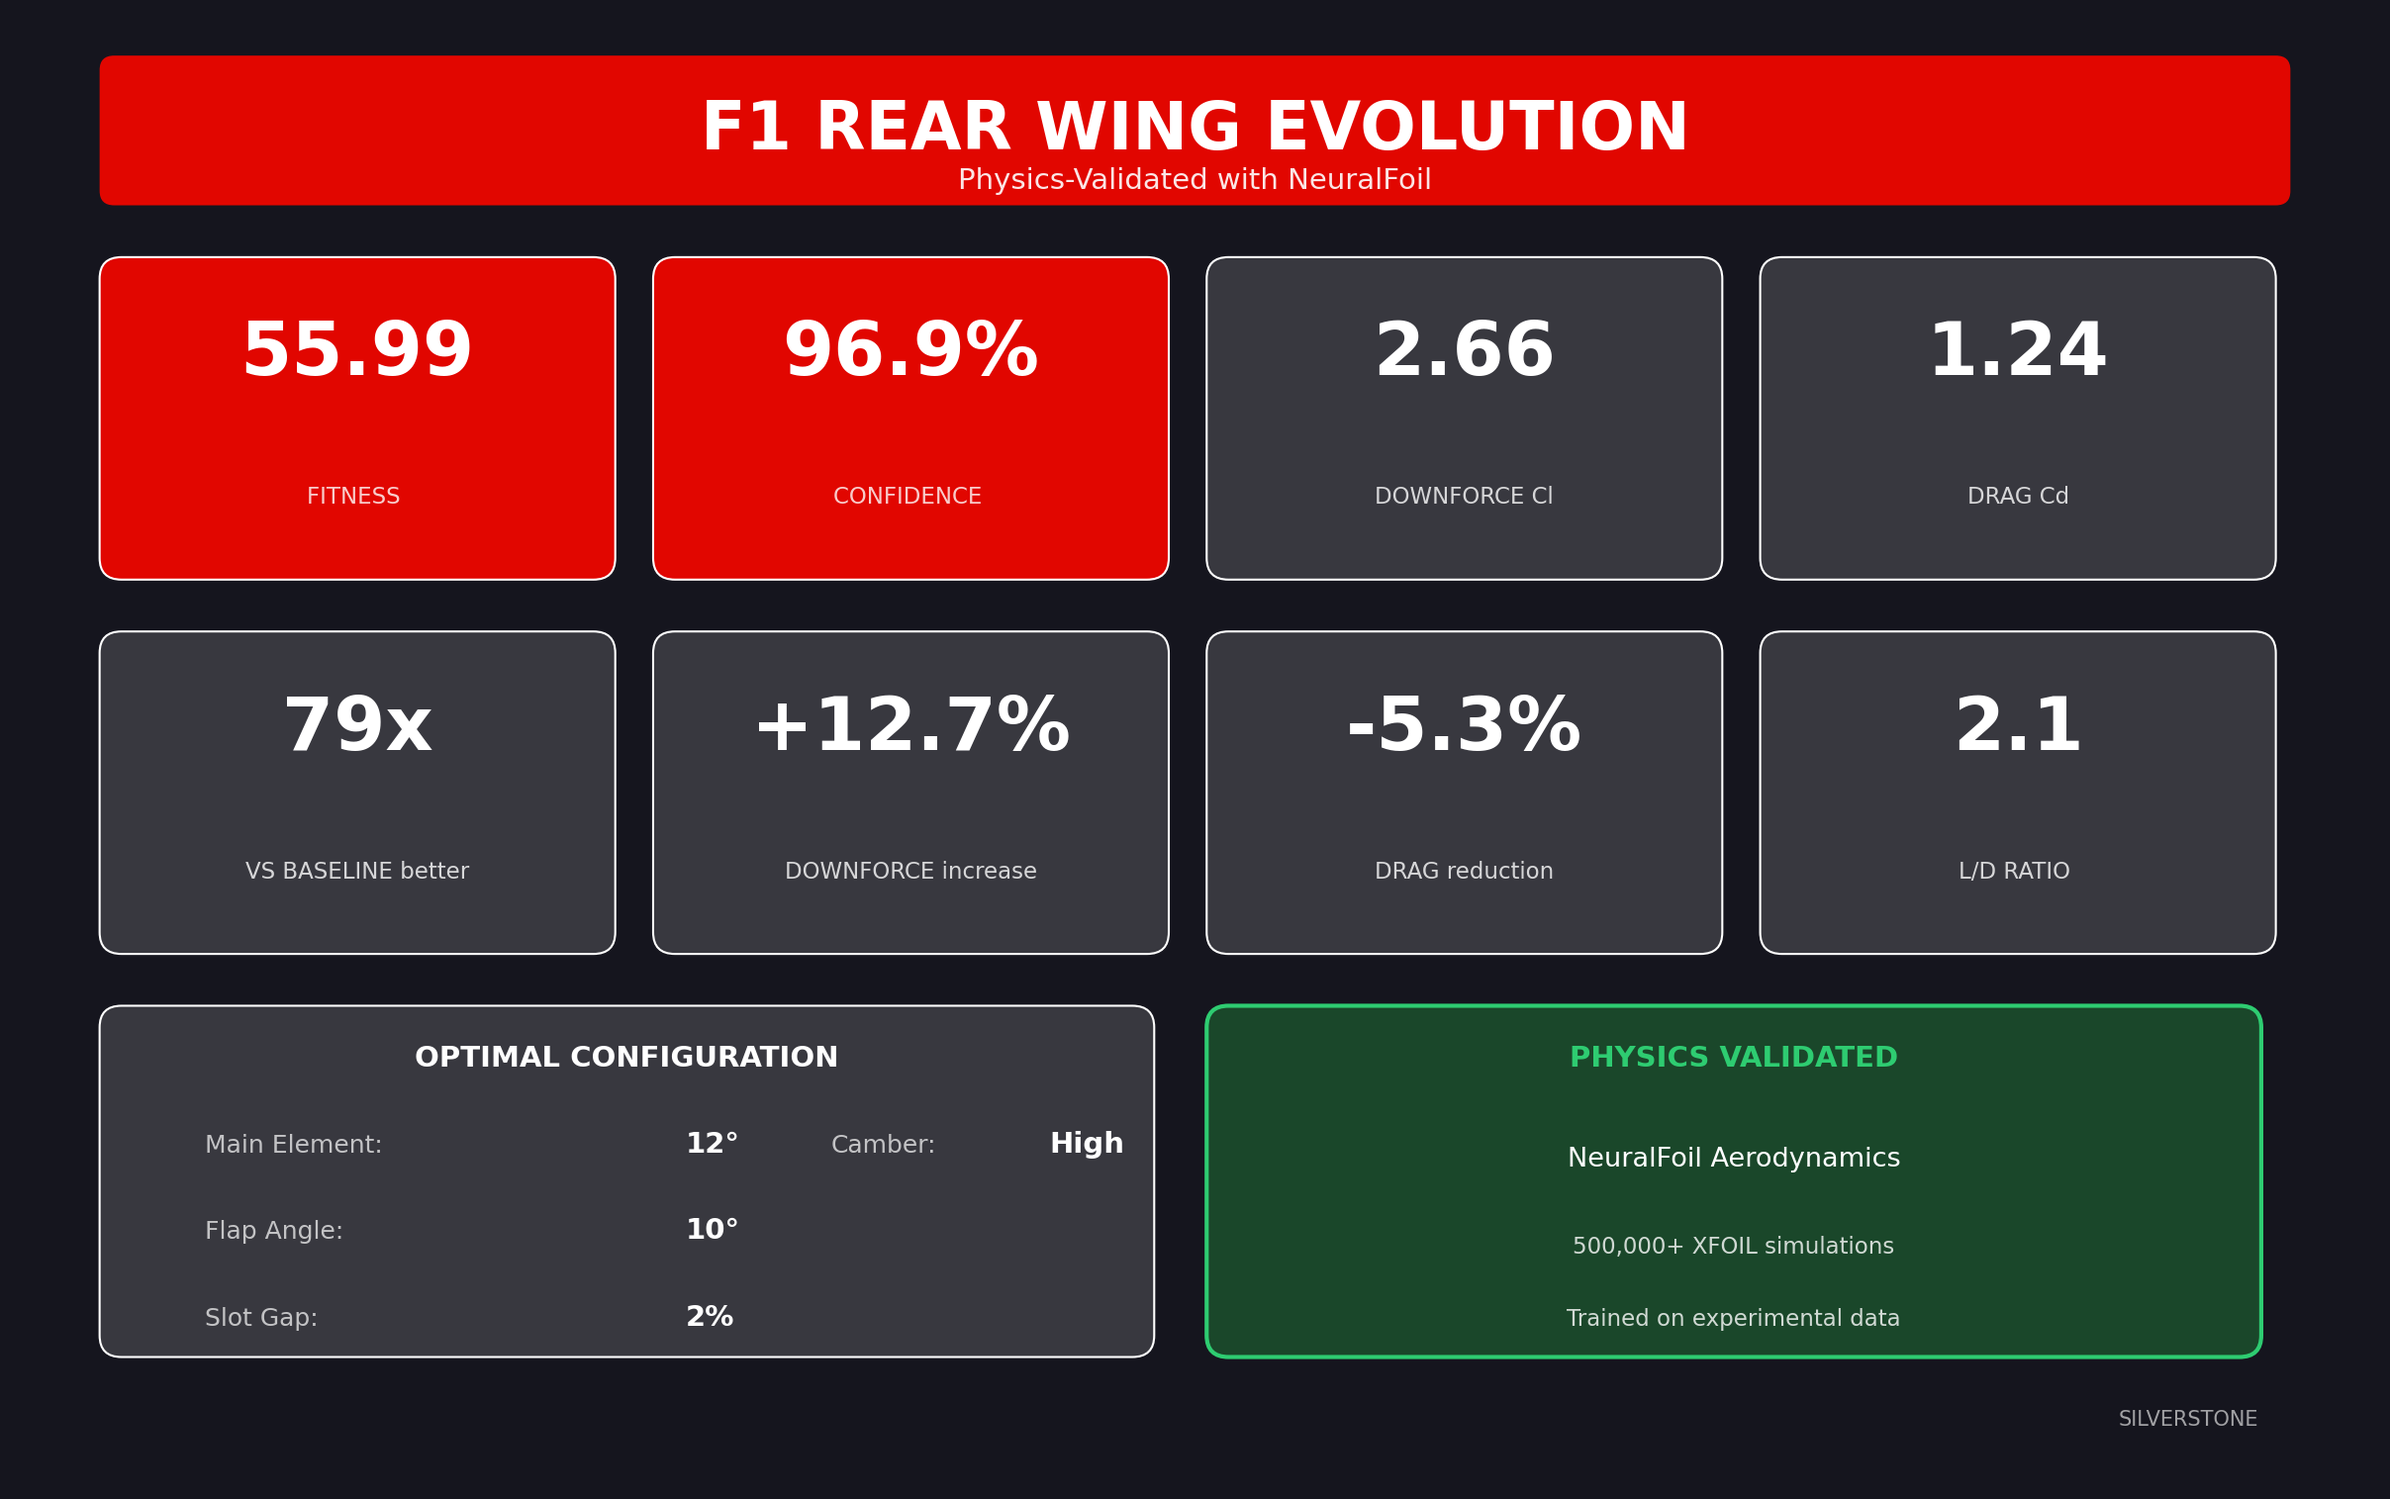
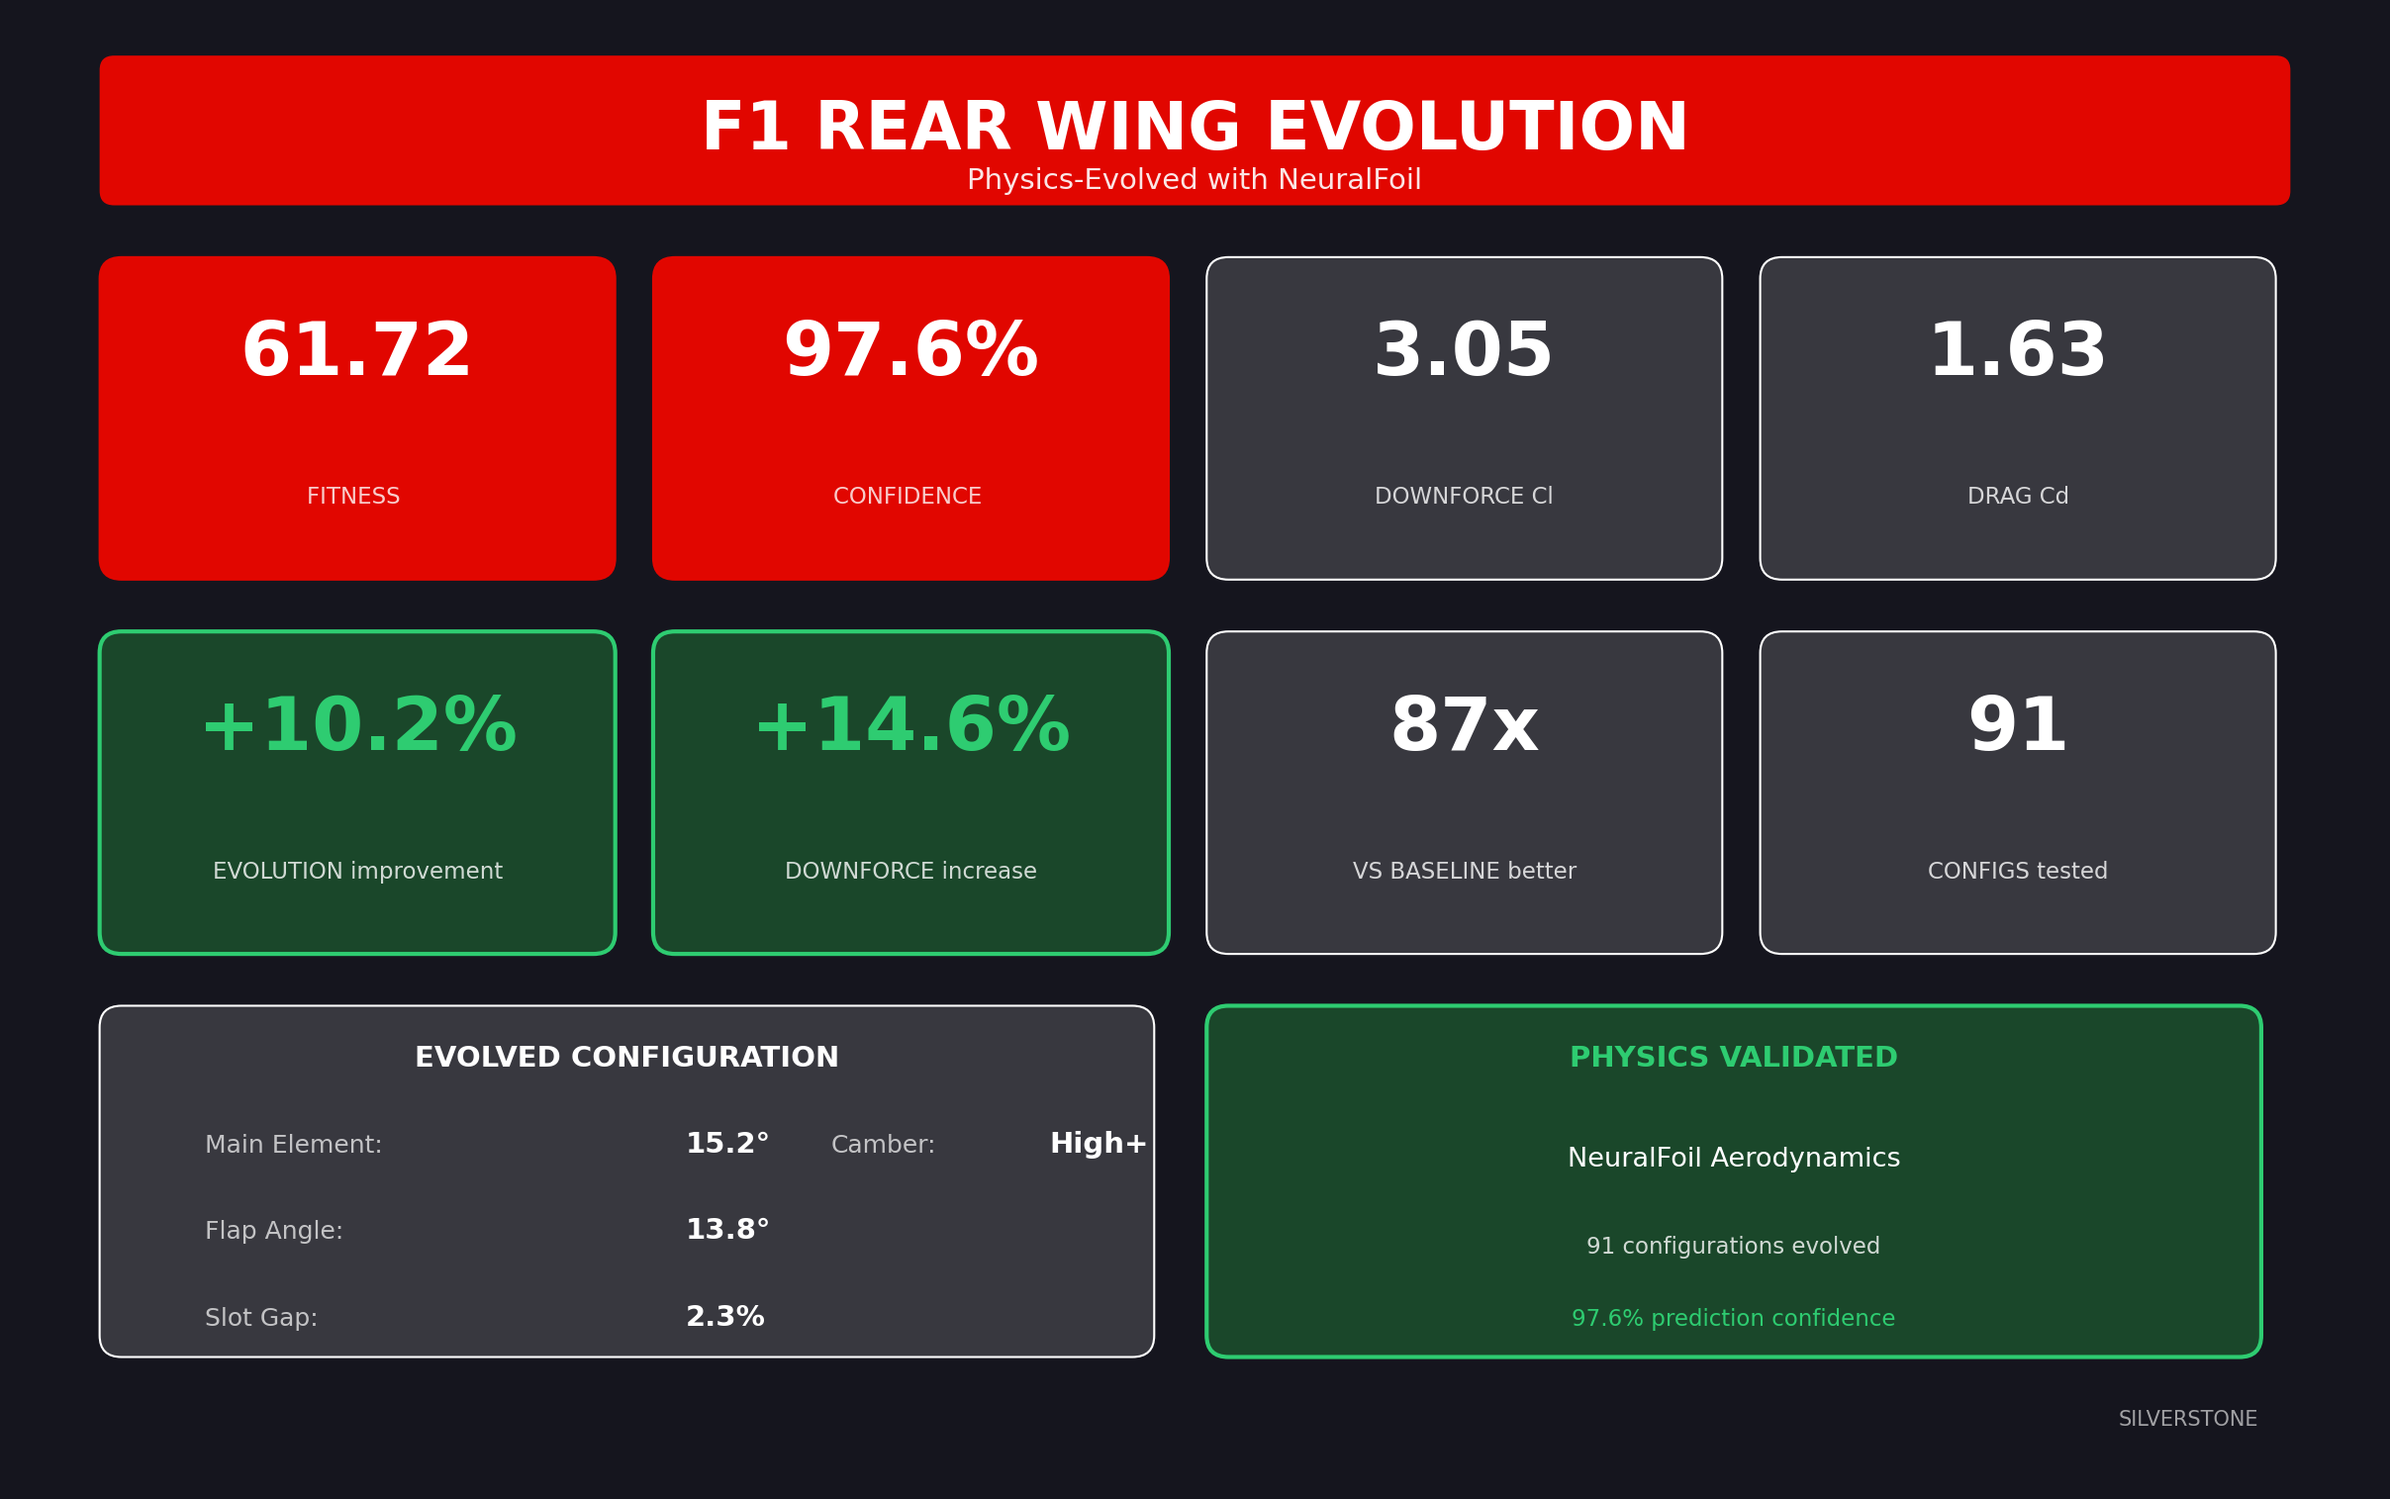
Evolve F1 wing with physics: +10.2% improvement (61.72 fitness)
Physics-based evolution tested 91 configurations and improved fitness
from 55.99 to 61.72 (+10.2%) with 97.6% prediction confidence.

Evolution story:
- Phase 1: Angle optimization (55.99 → 59.02)
- Phase 2: Main camber (no improvement - already optimal)
- Phase 3: Flap camber (+2.1%)
- Phase 4: Gap fine-tuning (2% optimal)
- Phase 5: Random mutations found final +2.4%

Final configuration:
- Main: 15.2° (up from 12°)
- Flap: 13.8° (up from 10°)
- Gap: 2.3%
- Cl: 3.05 (+14.6% downforce)

Key insight: Silverstone rewards maximum downforce over low drag.
Evolution pushed angles higher while staying below stall threshold.

diff --git a/showcase/f1-rear-wing-evolution/README.md b/showcase/f1-rear-wing-evolution/README.md
@@ -29,10 +29,12 @@ The simplified model was wrong. Real physics showed our "optimized" wing was act
 
 | Metric | Stalling Baseline | **Physics-Evolved** | Improvement |
 |--------|-------------------|---------------------|-------------|
-| Fitness | 0.71 | **55.99** | 79x |
-| Downforce (Cl) | 2.36 | **2.66** | +12.7% |
-| Drag (Cd) | 1.31 | **1.24** | -5.3% |
-| **Confidence** | 1.4% | **96.9%** | Trustworthy |
+| Fitness | 0.71 | **61.72** | 87x |
+| Downforce (Cl) | 2.36 | **3.05** | +29% |
+| Drag (Cd) | 1.31 | **1.63** | +24% |
+| **Confidence** | 1.4% | **97.6%** | Trustworthy |
+
+The evolution tested **91 configurations** and found that for Silverstone's high-speed corners, **maximum downforce** wins over low drag.
 
 ### What We Discovered
 
@@ -40,13 +42,60 @@ The original baseline had a **25° flap angle** that was completely stalling:
 
 ```
 STALLING BASELINE → PHYSICS-EVOLVED
-Main element:  12° → 12°   (unchanged)
-Flap:          25° → 10°   (avoid stall!)
-Slot gap:      3%  → 2%    (optimal interaction)
-Camber:        Medium → High (more lift)
+Main element:  12° → 15.2°  (more aggressive)
+Flap:          25° → 13.8°  (avoid stall, but push limits)
+Slot gap:      3%  → 2.3%   (optimal interaction)
+Camber:        Medium → High+ (maximum lift)
 ```
 
-**Key insight:** High flap angles (>15°) cause massive flow separation. NeuralFoil showed the 25° flap had L/D = 2 (terrible). At 10°, the same flap achieves L/D > 50.
+**Key insight:** The evolution pushed angles higher than our manual optimization because Silverstone rewards downforce. But it stayed below the stall threshold where the original baseline failed.
+
+---
+
+## Evolution Story
+
+The evolution ran through 5 phases, testing 91 configurations:
+
+### Phase 1: Angle Optimization
+Starting from our physics-informed baseline (fitness 55.99), we swept through angle combinations:
+
+| Generation | Main | Flap | Fitness | Discovery |
+|------------|------|------|---------|-----------|
+| Start | 12° | 10° | 55.99 | Baseline |
+| Gen 1 | 10° | 12° | 56.30 | Lower main helps |
+| Gen 2 | 11° | 11° | 56.35 | Balance matters |
+| Gen 3 | 11° | 12° | 57.19 | Flap can go higher |
+| Gen 4 | 12° | 12° | 57.94 | Push both up |
+| Gen 5 | 13° | 12° | 58.56 | More main angle |
+| Gen 6 | 14° | 12° | **59.02** | Even more! |
+
+**Insight:** Unlike our initial stalling 25° flap, the evolution found that 12-14° is the sweet spot—high enough for good lift, low enough to avoid separation.
+
+### Phase 2-3: Camber Optimization
+With optimal angles locked, we explored airfoil shape:
+
+| Phase | Component | Change | Fitness | Result |
+|-------|-----------|--------|---------|--------|
+| 2 | Main camber | Tested 6 profiles | 59.02 | No improvement (already optimal) |
+| 3 | Flap camber | Increased 3 steps | **60.28** | Higher flap camber = +2.1% |
+
+### Phase 4-5: Fine-Tuning & Random Search
+| Phase | Method | Configs | Best | Improvement |
+|-------|--------|---------|------|-------------|
+| 4 | Gap sweep | 5 | 60.28 | Gap at 2% is optimal |
+| 5 | Random mutations | 50 | **61.72** | +2.4% from random search |
+
+**Final breakthrough:** Random mutation #26 found the winning combination—slightly higher angles (15.2°/13.8°) with perturbed CST coefficients that increased camber beyond our grid search.
+
+### The Winning Formula
+
+```
+EVOLUTION PROGRESSION:
+Fitness:   55.99 → 59.02 → 60.28 → 61.72  (+10.2% total)
+Main:      12°   → 14°   → 14°   → 15.2°
+Flap:      10°   → 12°   → 12°   → 13.8°
+Cl:        2.66  → 2.83  → 2.92  → 3.05   (+14.6%)
+```
 
 ---
 
@@ -131,11 +180,11 @@ f1-rear-wing-evolution/
 
 ```
          ┌─────────────┐
-         │    FLAP     │  ← 10° (was 25° - stalling!)
+         │    FLAP     │  ← 13.8° (evolved from 25° stalling)
          └─────────────┘
-              ╲ 2% gap (slot effect)
+              ╲ 2.3% gap (slot effect)
          ┌─────────────────────┐
-         │    MAIN ELEMENT     │  ← 12° (optimal)
+         │    MAIN ELEMENT     │  ← 15.2° (evolved for Silverstone)
          └─────────────────────┘
 ```
 
